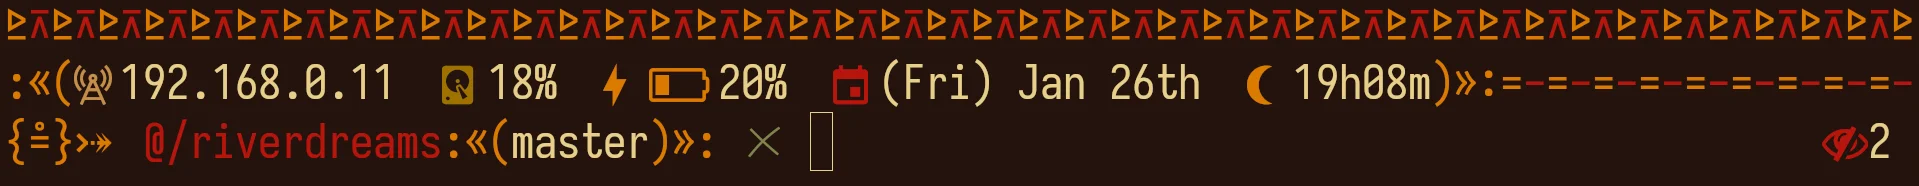
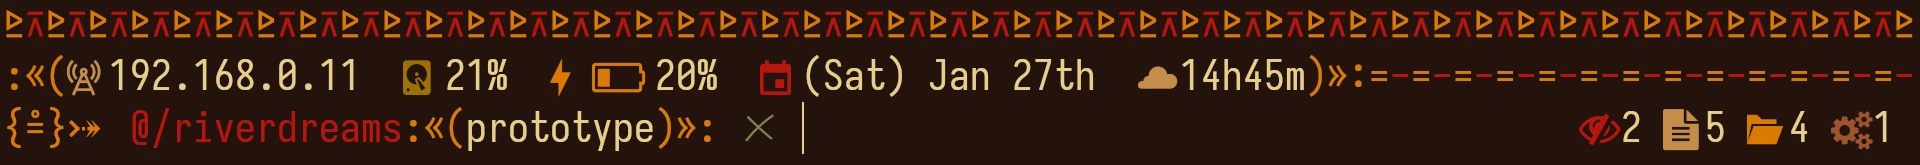
prepare v6.6.0
- add overview of the entries in the active directory in rprompt.

diff --git a/src/rprompt.c b/src/rprompt.c
@@ -8,10 +8,23 @@
 	if (val)\
 		printf(" %s%d", sym, val);
 
-static void getdirinfo(int *hid, int *tmp, int *sym, int *exec);
+typedef struct {
+	int hid;
+	int tmp;
+	int sym;
+	int exec;
+	int reg;
+	int dir;
+	int blk;
+	int ff;
+	int ch;
+	int soc;
+} dirinfo;
+
+static void getdirinfo(dirinfo *di);
 
 static void
-getdirinfo(int *hid, int *tmp, int *sym, int *exec)
+getdirinfo(dirinfo *di)
 {
 	DIR *d = opendir(".");
 	struct dirent *e;
@@ -22,14 +35,28 @@ getdirinfo(int *hid, int *tmp, int *sym, int *exec)
 		if (!strcmp(e->d_name, ".") || !strcmp(e->d_name, ".."))
 			continue;
 		lstat(e->d_name, &s);
-		if (*e->d_name == '.')
-			(*hid)++;
-		else if (*e->d_name == '~')
-			(*tmp)++;
 		if (S_ISLNK(s.st_mode))
-			(*sym)++;
-		else if (S_ISREG(s.st_mode) && s.st_mode & S_IXUSR)
-			(*exec)++;
+			di->sym++;
+		stat(e->d_name, &s);
+		if (*e->d_name == '.')
+			di->hid++;
+		else if (*e->d_name == '~')
+			di->tmp++;
+		if (S_ISDIR(s.st_mode))
+			di->dir++;
+		else if (S_ISBLK(s.st_mode))
+			di->blk++;
+		else if (S_ISFIFO(s.st_mode))
+			di->ff++;
+		else if (S_ISCHR(s.st_mode))
+			di->ch++;
+		else if (S_ISREG(s.st_mode)) {
+			di->reg++;
+			if (s.st_mode & S_IXUSR)
+				di->exec++;
+		}
+		else
+			di->soc++;
 	}
 	closedir(d);
 }
@@ -37,15 +64,19 @@ getdirinfo(int *hid, int *tmp, int *sym, int *exec)
 int
 main(void)
 {
-	int hid = 0;
-	int tmp = 0;
-	int sym = 0;
-	int exec = 0;
-	getdirinfo(&hid, &tmp, &sym, &exec);
-	DIRINFO("%F{1} %f", hid);
-	DIRINFO("%F{4} %f", sym);
-	DIRINFO("%F{2} %f", exec);
-	DIRINFO("%F{5} %f", tmp);
+	dirinfo di;
+	memset(&di, 0, sizeof(di));
+	getdirinfo(&di);
+	DIRINFO("%F{1} %f", di.hid);
+	DIRINFO("%F{5} %f", di.tmp);
+	DIRINFO("%F{2} %f", di.exec);
+	DIRINFO("%F{4} %f", di.sym);
+	DIRINFO("%F{4} %f", di.reg);
+	DIRINFO("%F{3} %f", di.dir);
+	DIRINFO("%F{5}🖪 %f", di.blk);
+	DIRINFO("%F{2} %f", di.ch);
+	DIRINFO("%F{4} %f", di.ff);
+	DIRINFO("%F{6} %f", di.soc);
 	printf("%%(1j. %%F{5} %%f%%j.)\n");
 	return 0;
 }

diff --git a/README.md b/README.md
@@ -31,17 +31,24 @@ Its left prompt displays:
 &emsp;**6.**&ensp;A decorator when you are the root user.\
 &emsp;**7.**&ensp;A decorator for exit codes.\
 &emsp;**8.**&ensp;The active virtual environment, if one has been sourced.\
-&emsp;**9.**&ensp;The active directory path, shorting it when inside a git repo.\
+&emsp;**9.**&ensp;The active directory path.\
 &emsp;**10.**&ensp;The active branch, when inside of a git repo.\
 &emsp;**11.**&ensp;A decorator to check if you can modify the active directory.
 
 Its right prompt displays:
 
-&emsp;**1.**&ensp;The total of hidden entries in the active directory.\
-&emsp;**2.**&ensp;The total of temporary entries in the active directory.\
-&emsp;**3.**&ensp;The total of symlinks in the active directory.\
-&emsp;**4.**&ensp;The total of executables in the active directory.\
-&emsp;**5.**&ensp;The total of background jobs.
+&emsp;**1.**&ensp;An overview of the entries in the active directory:\
+&emsp;&emsp;**1.1.**&ensp;The total of hidden entries.\
+&emsp;&emsp;**1.2.**&ensp;The total of temporary entries.\
+&emsp;&emsp;**1.3.**&ensp;The total of regular entries that are executables.\
+&emsp;&emsp;**1.4.**&ensp;The total of symlinks.\
+&emsp;&emsp;**1.5.**&ensp;The total of regular entries.\
+&emsp;&emsp;**1.6.**&ensp;The total of directories.\
+&emsp;&emsp;**1.7.**&ensp;The total of block devices.\
+&emsp;&emsp;**1.8.**&ensp;The total of character devices.\
+&emsp;&emsp;**1.9.**&ensp;The total of fifos.\
+&emsp;&emsp;**1.10.**&ensp;The total of sockets.\
+&emsp;**2.**&ensp;The total of background jobs.
 
 ## ❡ Install
 
@@ -55,7 +62,7 @@ The following dependencies are required to install it:
 
 ### ¦ Manual Procedures
 
-Using a terminal, follow these steps:
+If you just want to install riverdreams without using a plugin manager or framework, using a terminal, follow these steps:
 
 &emsp;**1.**&ensp;Clone this repository using git:
 
@@ -74,7 +81,7 @@ source ~/.local/share/zsh/themes/riverdreams/riverdreams.zsh-theme;
 
 ### ¦ OhMyZSH Procedures
 
-Using a terminal, follow these steps:
+If you plan to use riverdreams within the OhMyZSH framework, using a terminal, follow these steps:
 
 &emsp;**1.**&ensp;Clone this repository using git:
 
